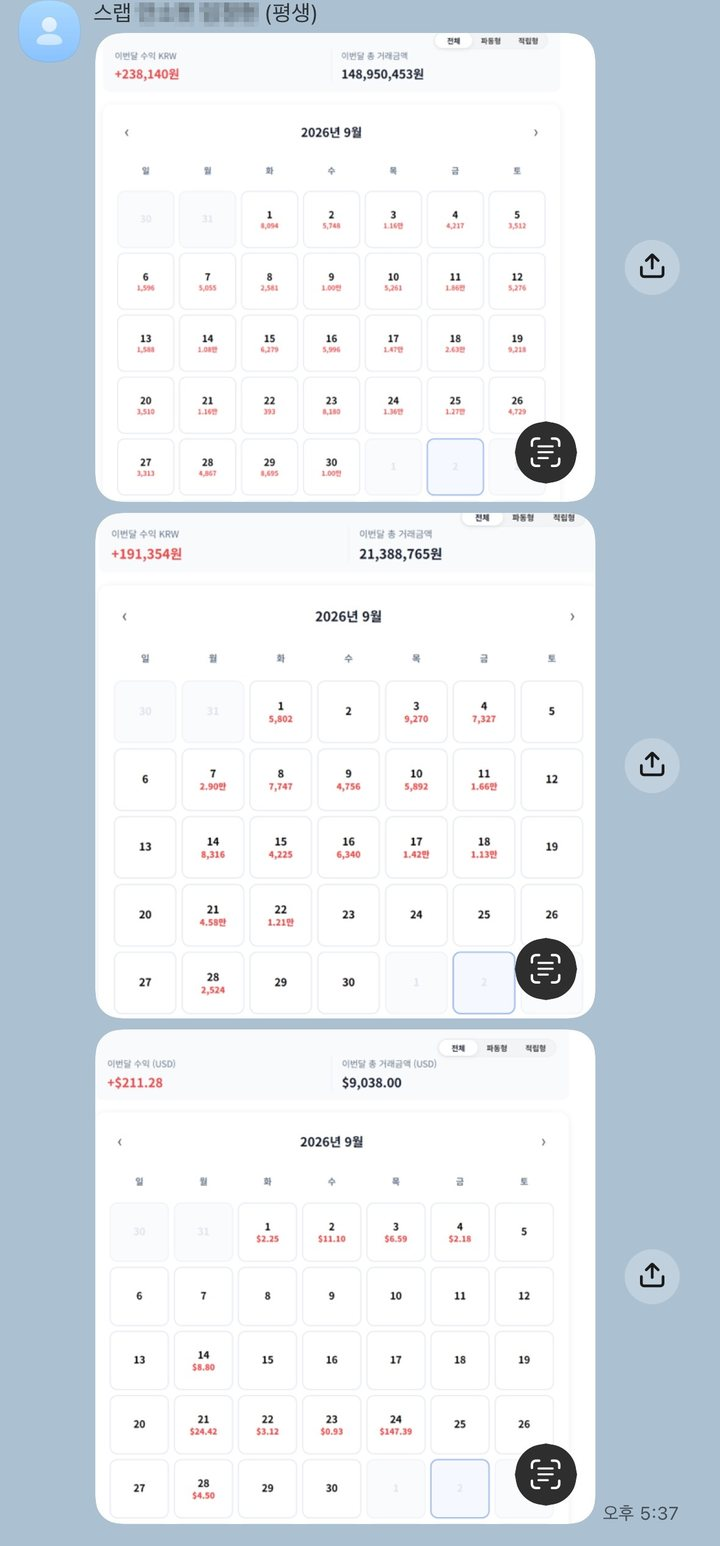
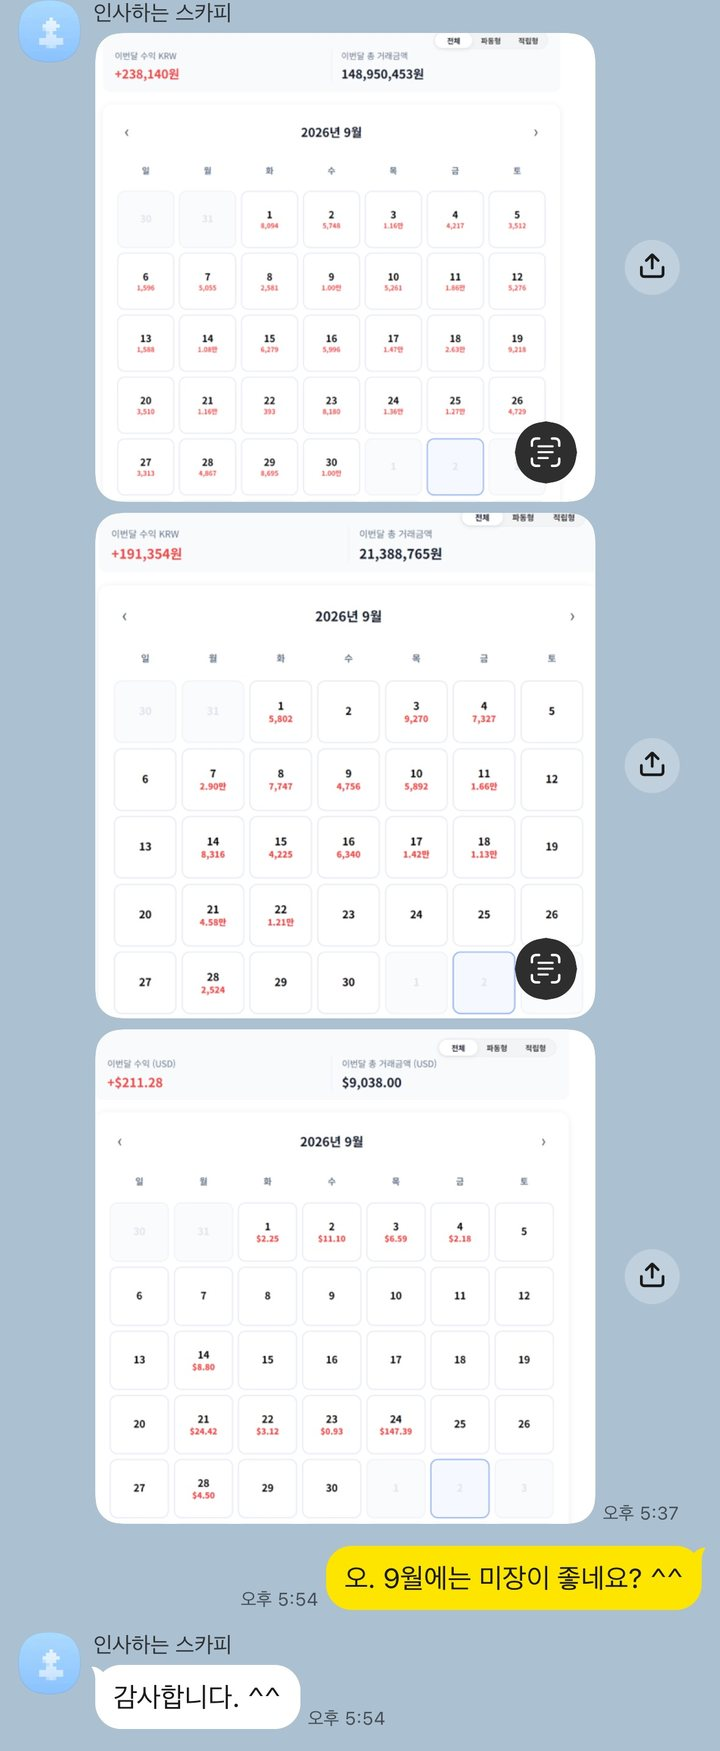
Add files via upload

diff --git a/gridsensor-zoom/index.html b/gridsensor-zoom/index.html
@@ -158,7 +158,7 @@
         <img src="https://ansojang.github.io/gridsensor-zoom/now_08.jpg" width="720" height="1255" alt="회원 카카오톡 메시지 — 디지털자산 운용 수익 화면" loading="lazy">
       </figure>
       <figure>
-        <img src="https://ansojang.github.io/gridsensor-zoom/now_09.jpg" width="720" height="1546" alt="회원 카카오톡 메시지 — 국내·해외·디지털자산 3종 수익 화면" loading="lazy">
+        <img src="https://ansojang.github.io/gridsensor-zoom/now_09.jpg" width="720" height="1751" alt="회원 카카오톡 메시지 — 국내·해외·디지털자산 3종 동시 운용 수익 화면" loading="lazy">
       </figure>
       <figure>
         <img src="https://ansojang.github.io/gridsensor-zoom/now_10.jpg" width="720" height="1151" alt="회원 카카오톡 메시지 — 국내주식 수익 화면" loading="lazy">
